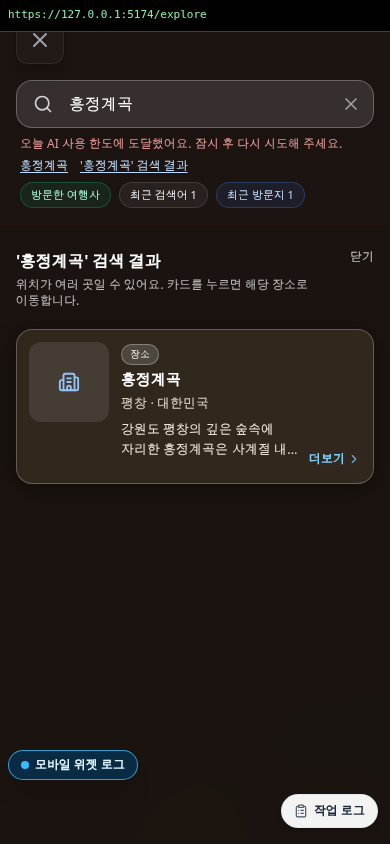
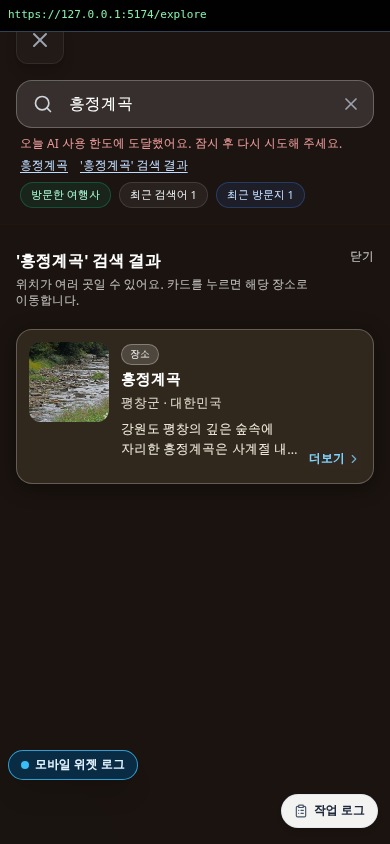
fix(place): 흥정계곡 separate from herbnara-farm + gallery QA
- Remove herbnara↔흥정계곡 legacy misheal; hangul /place/ via place_stats hydrate
- Block canonical redirect away from Korean place_id URLs
- Legacy gallery DB skip remains woljeong/seolma-ri ids only
- Tests + 390px QA (AI-limit URL stays /place/흥정계곡) + main vs preview galleries

Changed region(s): [[0.0615, 0.4005, 0.2769, 0.5237], [0.3692, 0.4621, 0.5846, 0.4929]]

diff --git a/src/pages/Home/index.jsx b/src/pages/Home/index.jsx
@@ -40,6 +40,10 @@ import {
   overlaySessionCuration,
   resolvePlaceTargetFromSlug,
 } from './lib/placeRouteHydrate';
+import {
+  fetchUiPlacePinFromPlaceStatsSlug,
+  isHangulPlaceStatsSlug,
+} from './lib/placeStatsSlugHydrate.js';
 import { isHiddenKoreaScenicPlaceSlug } from './lib/koreaScenicSpotVisibility.js';
 import { getSystemPrompt, PERSONA_TYPES } from './lib/prompts';
 import { persistMooniLastChatId } from './lib/tripChatUtils';
@@ -1031,7 +1035,11 @@ function Home() {
           );
 
           const canonicalParam = getPlaceUrlParam(focusTarget);
-          if (canonicalParam && canonicalParam.toLowerCase() !== normalizedTargetSlug) {
+          if (
+            canonicalParam &&
+            canonicalParam.toLowerCase() !== normalizedTargetSlug &&
+            !isHangulPlaceStatsSlug(targetSlug)
+          ) {
             const tabSuffix = match.params.tab ? `/${match.params.tab}` : '';
             navigate(`/place/${canonicalParam}${tabSuffix}`, { replace: true });
             return;
@@ -1149,6 +1157,31 @@ function Home() {
               .catch(() => {});
           }
 
+          setIsCardExpanded(true);
+        });
+      } else if (isHangulPlaceStatsSlug(targetSlug)) {
+        const hangulSync = ++placeRouteSyncRef.current;
+        fetchUiPlacePinFromPlaceStatsSlug(targetSlug).then((pin) => {
+          if (!pin || hangulSync !== placeRouteSyncRef.current) return;
+          const focusTarget = overlaySessionCuration(
+            enrichLocationWithRentalAirport(
+              healPlaceholderCountry(
+                mergeCanonicalTravelSpot({
+                  ...pin,
+                  id: pin.id || pin.place_id || `loc-${pin.lat}-${pin.lng}`,
+                  type: pin.type || 'temp-base',
+                  category: pin.category || category,
+                }),
+              ),
+            ),
+            { selectedLocation: selectedLocationRef.current },
+          );
+          selectedLocationRef.current = focusTarget;
+          pendingGlobeHomeFocusRef.current = focusTarget;
+          rememberGlobeFocus(focusTarget);
+          addScoutPin(focusTarget);
+          moveToLocation(focusTarget.lat, focusTarget.lng, focusTarget.name, focusTarget.category);
+          setSelectedLocation(focusTarget);
           setIsCardExpanded(true);
         });
       } else {

diff --git a/src/pages/Home/lib/placeStatsSlugHydrate.js b/src/pages/Home/lib/placeStatsSlugHydrate.js
@@ -1,0 +1,66 @@
+/**
+ * place_stats 행 — 한글 place_id URL (/place/흥정계곡) 복원.
+ */
+import { supabase } from '../../../shared/api/supabase.js';
+import { visitedRowToSearchSpot } from './visitedPlaceSearch.js';
+
+const HANGUL_PLACE_SLUG_RE = /[\uAC00-\uD7A3]/;
+
+export function isHangulPlaceStatsSlug(slug) {
+  const raw = String(slug ?? '').trim();
+  return Boolean(raw) && HANGUL_PLACE_SLUG_RE.test(raw);
+}
+
+function postgrestQuoted(value) {
+  return `"${String(value).replace(/"/g, '')}"`;
+}
+
+/**
+ * @param {string} slug — URL segment (decoded)
+ * @returns {Promise<object | null>}
+ */
+export async function fetchUiPlacePinFromPlaceStatsSlug(slug) {
+  const raw = String(slug ?? '').trim();
+  if (!raw || !isHangulPlaceStatsSlug(raw)) return null;
+
+  const quoted = postgrestQuoted(raw);
+  try {
+    const { data: byId, error: idError } = await supabase
+      .from('place_stats')
+      .select('place_id, name_ko, name_en, lat, lng, image_url')
+      .eq('place_id', raw)
+      .maybeSingle();
+    if (!idError && byId) {
+      const spot = visitedRowToSearchSpot(byId);
+      if (spot) {
+        return {
+          ...spot,
+          slug: raw,
+          canonical_slug: raw,
+          place_id: raw,
+        };
+      }
+    }
+
+    const { data: byName, error: nameError } = await supabase
+      .from('place_stats')
+      .select('place_id, name_ko, name_en, lat, lng, image_url')
+      .eq('name_ko', raw)
+      .maybeSingle();
+    if (!nameError && byName) {
+      const placeId = String(byName.place_id || raw).trim();
+      const spot = visitedRowToSearchSpot(byName);
+      if (spot) {
+        return {
+          ...spot,
+          slug: placeId,
+          canonical_slug: placeId,
+          place_id: placeId,
+        };
+      }
+    }
+  } catch {
+    return null;
+  }
+  return null;
+}

diff --git a/src/pages/Home/lib/legacyMishealPlaceSlugs.js b/src/pages/Home/lib/legacyMishealPlaceSlugs.js
@@ -1,23 +1,11 @@
 /**
  * Nominatim이 한글 명소를 근처 라틴 지명으로 굳힌 공유 URL.
  * slug는 옛 주소를 유지하고, 표시명·좌표는 그 명소다.
- * 흥정계곡 21장(place_id herbnara-farm)은 slug 후보로 그대로 조회된다.
+ * (흥정계곡 ↔ herbnara-farm 분리는 place_stats — /place/흥정계곡 은 placeStatsSlugHydrate)
  */
-/** Unsplash/Pexels — farm/herb place_id·name_en 오탐 방지 (TourAPI는 place_id herbnara-farm 유지) */
-const LEGACY_MISHEAL_GALLERY_QUERIES = {
-  'herbnara-farm': {
-    primary: 'Heungjeonggyegok valley stream',
-    backup: 'Pyeongchang mountain valley creek Korea',
-  },
-};
+const LEGACY_MISHEAL_GALLERY_QUERIES = {};
 
 const LEGACY_MISHEAL_PLACES = {
-  'herbnara-farm': {
-    name: '흥정계곡',
-    parentCity: '평창',
-    lat: 37.6270726091,
-    lng: 128.3518474417,
-  },
   'woljeong-ri': {
     name: '월정리해변',
     parentCity: '제주시',
@@ -62,20 +50,13 @@ function buildLegacyMishealPin(placeId, row) {
   };
 }
 
-/** Latin legacy slug (herbnara-farm) or Korean display slug (/place/흥정계곡). */
+/** Latin legacy mis-heal slug only (woljeong-ri, seolma-ri, …). */
 export function resolveLegacyMishealPlace(slug) {
   const raw = String(slug ?? '').trim();
   if (!raw) return null;
   const key = raw.toLowerCase();
   const byId = LEGACY_MISHEAL_PLACES[key];
   if (byId) return buildLegacyMishealPin(key, byId);
-
-  const compact = compactPlaceSlugKey(raw);
-  for (const [placeId, row] of Object.entries(LEGACY_MISHEAL_PLACES)) {
-    if (compact && compactPlaceSlugKey(row.name) === compact) {
-      return buildLegacyMishealPin(placeId, row);
-    }
-  }
   return null;
 }
 

diff --git a/src/pages/Home/lib/visitedPlaceSearch.js b/src/pages/Home/lib/visitedPlaceSearch.js
@@ -93,8 +93,6 @@ export function visitedRowToSearchSpot(row, extras = {}) {
 
   const desc = String(extras.desc || '').trim();
   const identity = visitedIdentityForRow(placeId, nameKo, nameEn);
-  const legacyMisheal =
-    placeId && nameKo && resolveLegacyMishealPlace(placeId)?.name === nameKo;
   const latinName = identity.nameEn
     ? pickLatinPlaceNameFromLocation({ name_en: identity.nameEn, name })
     : '';
@@ -115,8 +113,7 @@ export function visitedRowToSearchSpot(row, extras = {}) {
     source: 'visited',
     uiPlace: true,
     desc,
-    // herbnara-farm 행 image_url은 허브 농원 사진 — 명소 카드는 TourAPI·갤러리로 채운다
-    image_url: legacyMisheal ? '' : row.image_url || '',
+    image_url: row.image_url || '',
     ...(identity.parentCity
       ? { parentCity: identity.parentCity, poiAttraction: true }
       : {}),

diff --git a/docs/qa/pr-site-search/gallery-compare-README.md b/docs/qa/pr-site-search/gallery-compare-README.md
@@ -1,0 +1,12 @@
+# Gallery compare (390px)
+
+Main: `https://www.gateo.kr` · Preview: `https://127.0.0.1:5174`
+
+| Place | Env | imgs | loaded | broken | empty | file |
+|-------|-----|------|--------|--------|-------|------|
+| 경포대 | main | 2 | 2 | 0 | 0 | gallery-gyeongpodae-main-390.png |
+| 경포대 | preview | 2 | 2 | 0 | 0 | gallery-gyeongpodae-preview-390.png |
+| 성산일출봉 | main | 53 | 53 | 0 | 0 | gallery-seongsan-ilchulbong-main-390.png |
+| 성산일출봉 | preview | 53 | 53 | 0 | 0 | gallery-seongsan-ilchulbong-preview-390.png |
+| 카이로 | main | 55 | 39 | 0 | 16 | gallery-cairo-main-390.png |
+| 카이로 | preview | 55 | 39 | 0 | 16 | gallery-cairo-preview-390.png |
